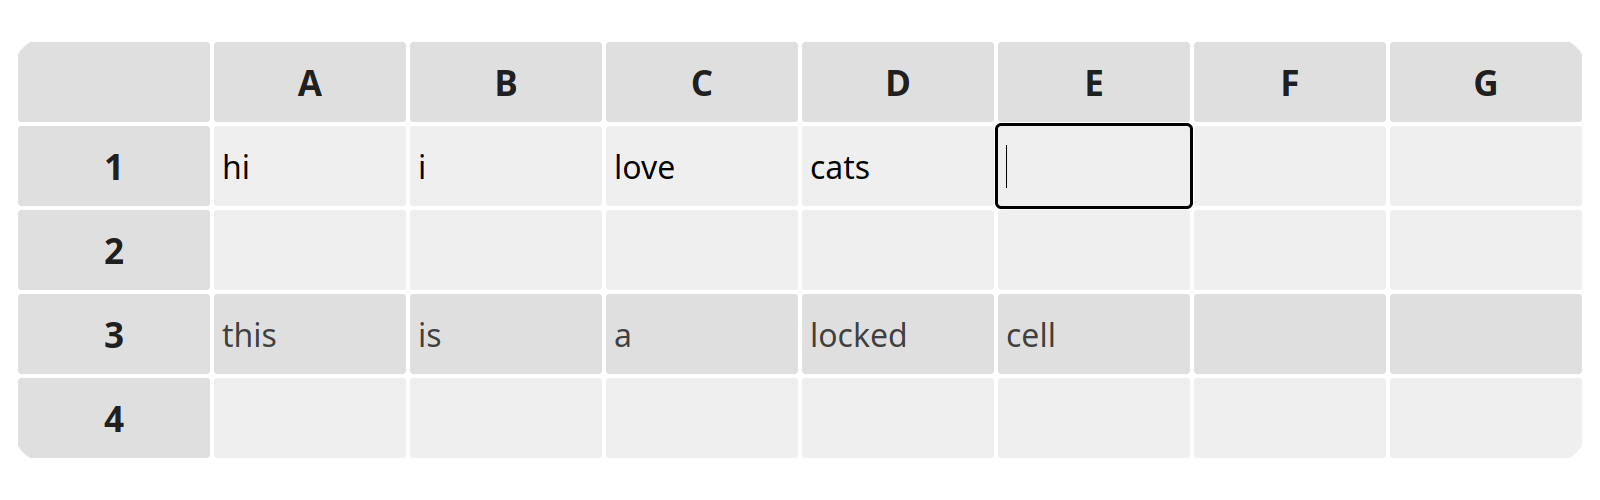
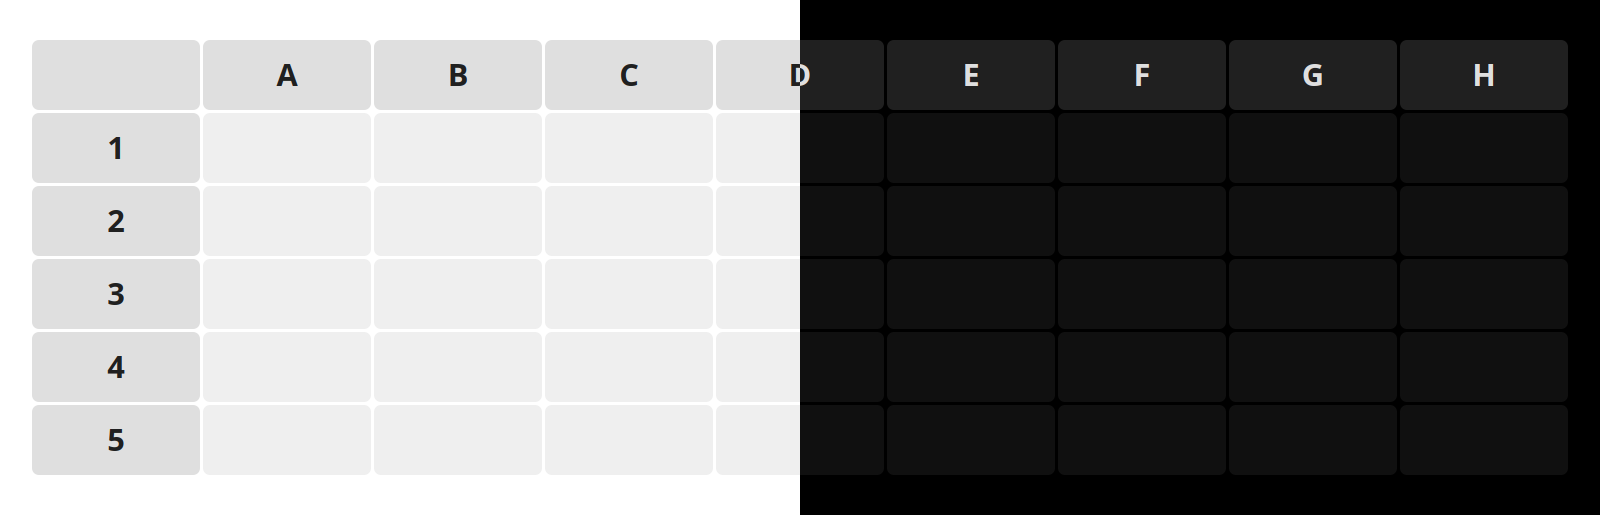
optimization and dark mode

diff --git a/src/lib/index.tsx b/src/lib/index.tsx
@@ -1,8 +1,9 @@
 import RowHeader from "./components/RowHeader";
-import Row from "./components/Row";
 import ColHeader from "./components/ColHeader";
 import "./index.css";
 import CellInput from "./components/CellInput";
+import { produce } from "immer";
+import { useState } from "react";
 
 export type Cell = {
 	value: number | string;
@@ -22,9 +23,10 @@ export type Cells = Array<Array<Cell>>;
 
 type SpreadsheetProps = {
 	cells: Cells;
-	onChange: (cells: Cells) => void;
+	onChange?: (cells: Cells) => void;
 	rowHeader?: Array<string | number>;
 	colHeader?: Array<string | number>;
+	darkMode?: boolean;
 };
 
 export default function Spreadsheet({
@@ -32,24 +34,30 @@ export default function Spreadsheet({
 	rowHeader,
 	colHeader,
 	onChange,
+	darkMode = false,
 }: SpreadsheetProps) {
 	let tabIndex = 1;
+	const [localCells, setLocalCells] = useState<Cells>(cells);
 
 	const handleChange = (rowIndex: number, colIndex: number) => {
 		return (e: React.ChangeEvent<HTMLInputElement>) => {
-			const updatedCells = structuredClone(cells);
+			const updatedCells = produce(localCells, (draft) => {
+				draft[rowIndex][colIndex].value = e.target.value;
+			});
 
-			updatedCells[rowIndex][colIndex].value = e.target.value;
-			onChange(updatedCells);
+			setLocalCells(updatedCells);
+			if (onChange) onChange(updatedCells);
 		};
 	};
 
 	return (
-		<table className="spreadsheet">
+		<table
+			className={"spreadsheet" + (darkMode ? " spreadsheet--dark" : "")}
+		>
 			<tbody className="spreadsheet__body">
-				<RowHeader rowHeader={rowHeader} cells={cells} />
-				{cells.map((row, rowIndex) => (
-					<Row key={rowIndex}>
+				<RowHeader rowHeader={rowHeader} cells={localCells} />
+				{localCells.map((row, rowIndex) => (
+					<tr className="spreadsheet__row" key={rowIndex}>
 						<ColHeader rowIndex={rowIndex} colHeader={colHeader} />
 						{row.map((cell, cellIndex) => (
 							<CellInput
@@ -59,7 +67,7 @@ export default function Spreadsheet({
 								onChange={handleChange(rowIndex, cellIndex)}
 							/>
 						))}
-					</Row>
+					</tr>
 				))}
 			</tbody>
 		</table>

diff --git a/src/lib/index.css b/src/lib/index.css
@@ -1,29 +1,44 @@
 .spreadsheet {
+	--primary-100: #ffffff;
+	--primary-200: #efefef;
+	--primary-300: #dfdfdf;
+	--secondary-100: #000000;
+	--secondary-200: #101010;
+	--secondary-300: #202020;
+
 	width: max-content;
 	height: max-content;
-	border-radius: 1rem;
-	overflow: hidden;
 	border-collapse: separate;
+}
+
+.spreadsheet--dark {
+	--primary-100: #000000;
+	--primary-200: #101010;
+	--primary-300: #202020;
+	--secondary-100: #ffffff;
+	--secondary-200: #efefef;
+	--secondary-300: #dfdfdf;
 }
 
 .spreadsheet__cell {
 	height: 2.5rem;
 	width: 6rem;
 	padding: 0;
-	border-radius: 0.1rem;
+	border-radius: 0.25rem;
 	overflow: hidden;
 }
 
 .spreadsheet__cell-header {
-	background-color: #dfdfdf;
-	color: #202020;
+	background-color: var(--primary-300);
+	color: var(--secondary-300);
 	font-weight: bold;
 	text-align: center;
 	font-size: 1.1rem;
 }
 
 .spreadsheet__cell-input {
-	background-color: #efefef;
+	background-color: var(--primary-200);
+	color: var(--secondary-100);
 	width: 100%;
 	height: 100%;
 	padding: 0.25rem;
@@ -36,11 +51,15 @@
 	overflow: visible;
 }
 
+.spreadsheet__cell-input:hover {
+	background-color: var(--primary-300);
+}
+
 .spreadsheet__cell:has(.spreadsheet__cell-input:focus) {
-	outline: 0.1rem solid #000000;
+	outline: 0.1rem solid var(--secondary-100);
 }
 
 .spreadsheet__cell-input:disabled {
-	background-color: #dfdfdf;
-	color: #404040;
+	background-color: var(--primary-300);
+	color: var(--secondary-300);
 }

diff --git a/src/lib/components/CellInput.tsx b/src/lib/components/CellInput.tsx
@@ -1,3 +1,4 @@
+import { memo, useState } from "react";
 import { Cell } from "../index";
 
 type CellInputProps = {
@@ -6,11 +7,14 @@ type CellInputProps = {
 	onChange: (e: React.ChangeEvent<HTMLInputElement>) => void;
 };
 
-export default function CellInput({
-	cell,
-	tabIndex,
-	onChange,
-}: CellInputProps) {
+function CellInput({ cell, tabIndex, onChange }: CellInputProps) {
+	const [value, setValue] = useState(cell.value);
+
+	const handleChange = (e: React.ChangeEvent<HTMLInputElement>) => {
+		setValue(e.target.value);
+		onChange(e);
+	};
+
 	const handleKeyDown = (e: React.KeyboardEvent<HTMLInputElement>) => {
 		if (e.key === "Enter") {
 			const currentElement = e.target as HTMLInputElement;
@@ -31,12 +35,17 @@ export default function CellInput({
 				className="spreadsheet__cell-input"
 				type="text"
 				tabIndex={tabIndex}
-				value={cell.value}
 				inputMode={cell.inputMode}
-				onChange={onChange}
-				onKeyDown={handleKeyDown}
 				disabled={cell.locked}
+				value={value}
+				onChange={handleChange}
+				onKeyDown={handleKeyDown}
 			/>
 		</td>
 	);
 }
+
+export default memo(
+	CellInput,
+	(prevProps, nextProps) => prevProps.cell === nextProps.cell
+);

diff --git a/src/App.tsx b/src/App.tsx
@@ -2,45 +2,15 @@ import { useState } from "react";
 import Spreadsheet from "./lib";
 import { Cells } from "./lib/index";
 
+const ROWS = 100;
+const COLUMNS = 10;
+
 export default function App() {
-	const [cells, setCells] = useState<Cells>([
-		[
-			{ value: "" },
-			{ value: "" },
-			{ value: "" },
-			{ value: "" },
-			{ value: "" },
-			{ value: "" },
-			{ value: "" },
-		],
-		[
-			{ value: "" },
-			{ value: "" },
-			{ value: "" },
-			{ value: "" },
-			{ value: "" },
-			{ value: "" },
-			{ value: "" },
-		],
-		[
-			{ value: "this", locked: true },
-			{ value: "is", locked: true },
-			{ value: "a", locked: true },
-			{ value: "locked", locked: true },
-			{ value: "cell", locked: true },
-			{ value: "", locked: true },
-			{ value: "", locked: true },
-		],
-		[
-			{ value: "" },
-			{ value: "" },
-			{ value: "" },
-			{ value: "" },
-			{ value: "" },
-			{ value: "" },
-			{ value: "" },
-		],
-	]);
+	const [cells, setCells] = useState<Cells>(
+		Array.from(Array(ROWS), () =>
+			Array.from(Array(COLUMNS), () => ({ value: "" }))
+		)
+	);
 
 	const handleChange = (cells: Cells) => setCells(cells);
 

diff --git a/README.md b/README.md
@@ -17,19 +17,19 @@ import Spreadsheet, { Cells } from "@amedoeyes/spreadsheet";
 import { useState } from "react";
 
 export default function App() {
-	const [data, setData] = useState<Cells>([
+	const [cells, setCells] = useState<Cells>([
 		[{ value: "" }, { value: "" }, { value: "" }],
 		[{ value: "" }, { value: "" }, { value: "" }],
 		[{ value: "" }, { value: "" }, { value: "" }],
 	]);
 
-	const handleChange = (data: Cells) => setData(data);
+	const handleChange = (cells: Cells) => setCells(cells);
 
-	return <Spreadsheet cells={data} onChange={handleChange} />;
+	return <Spreadsheet cells={cells} onChange={handleChange} />;
 }
 ```
 
-##### Types
+#### Types
 
 ```ts
 type Cell = {
@@ -49,12 +49,13 @@ type Cell = {
 type Cells = Array<Array<Cell>>;
 ```
 
-##### Styling
+#### Styling
 
 You can style it by using the following classes:
 
 ```css
  spreadsheet
+ spreadsheet--dark
  spreadsheet__body
  spreadsheet__cell
  spreadsheet__cell-header
